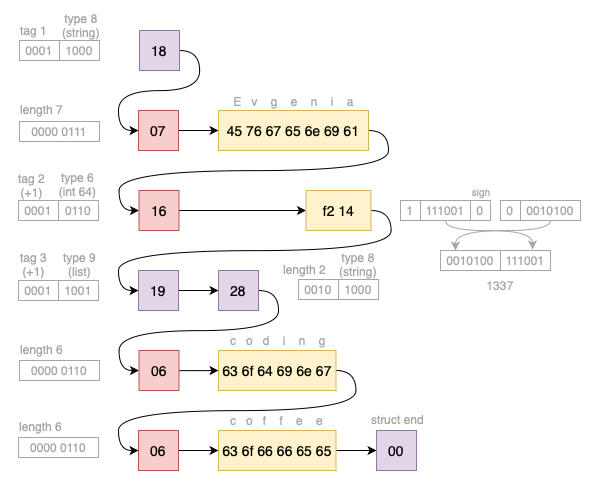
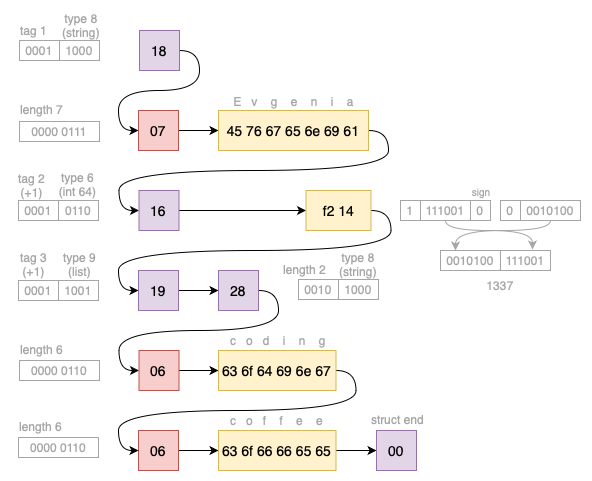
proto images and small fixes in other images

diff --git a/encoding_techs/encoding_techs/protocol_buffer/README.md b/encoding_techs/encoding_techs/protocol_buffer/README.md
@@ -39,26 +39,12 @@ person.interests.extend(["coding", "coffee"])
 result = person.SerializeToString()
 ```
 
-Result is the next byte-string in hex format:
-```
-0a:07:45:76:67:65:6e:69:61:10:b9:0a:1a:06:63:6f:64:69:6e:67:1a:06:63:6f:66:66:65:65
-```
+Result is the following 28 bytes sequence in hex format:
 
-## Analysis
+![](https://raw.githubusercontent.com/Genvekt/data-encoding-techniques/main/images/protobuffer_string.png)
 
-The resulting byte-string is 28 bytes long. It can be translated the next way:
-```
-0a                   -> [ 00001 | 010 ]  (tag 1, type 2 (str)) 
-07                   -> [ 0000 0111 ] (len 7)
-45:76:67:65:6e:69:61 -> Evgenia in ASCII
-10                   -> [ 00010 | 000 ] (tag 2, type 0 (varint))
-b9:0a                -> [ 1|011 1001 || 0|000 1010 ] -> [011 1001 || 000 1010] -> [ 000 1010 011 1001] -> 1337
-1a                   -> [00011 | 010 ] (tag 3, type 2 (str))
-06                   -> [ 0000 0110 ] (len 6)
-63:6f:64:69:6e:67    -> coding in ASCII
-1a                   -> [00011 | 010 ] (tag 3, type 2 (str))
-06                   -> [ 0000 0110 ] (len 6)
-63:6f:66:66:65:65    -> coffee in ASCII
-```
+Decomposition according to [specification]():
+
+![](https://raw.githubusercontent.com/Genvekt/data-encoding-techniques/main/images/protobuffer.png)
 
 Data is meaningful only with schema, which maps tags into actual field names.

diff --git a/encoding_techs/encoding_techs/message_pack/README.md b/encoding_techs/encoding_techs/message_pack/README.md
@@ -34,7 +34,7 @@ result = msgpack.dumps(person)
 #### Binary string analysis
 The result of encoding is next 63 bytes long sequence:
 
-![](https://raw.githubusercontent.com/Genvekt/data-encoding-techniques/main/images/message_pach_string.png)
+![](https://raw.githubusercontent.com/Genvekt/data-encoding-techniques/main/images/message_pack_string.png)
 
 Decomposition according to [specification](https://github.com/msgpack/msgpack/blob/master/spec.md#map-format-family):
 
